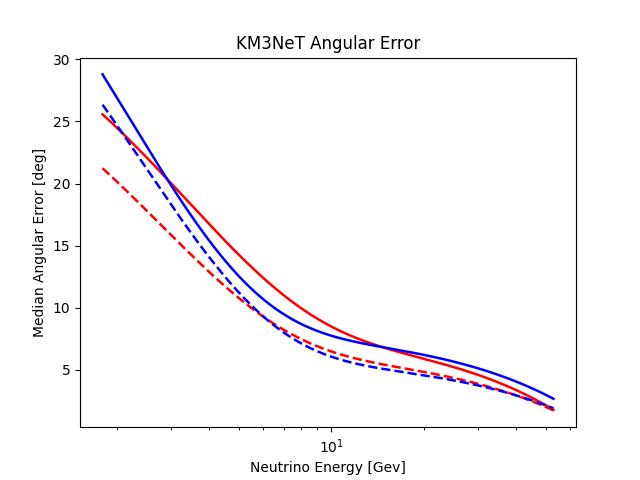
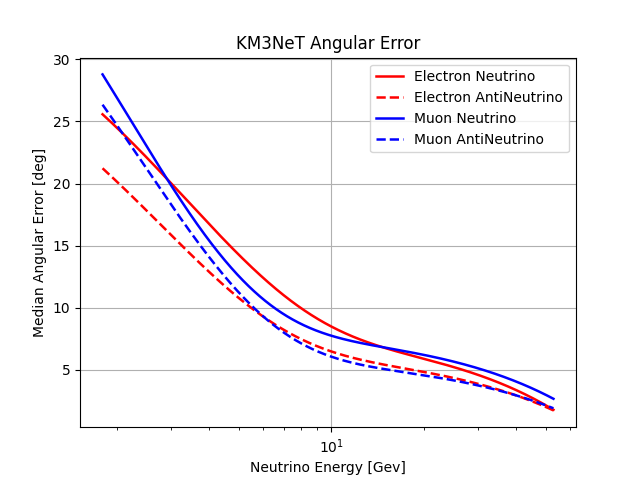
ORCA FINISHED V1

diff --git a/sources/ORCA/MCGenerator.py b/sources/ORCA/MCGenerator.py
@@ -72,6 +72,7 @@ class Generator:
 				else:
 					ORCA_zen_reco = -1
 
+				print("For event ", i, ":")
 				print("the true energy is ", self.MC["true_energy"][i])
 				print("the IC reco energy is ", self.MC["reco_energy"][i])
 				print("the fake ORCA MC energy is ", ORCA_E_reco, "\n")

diff --git a/sources/ORCA/plot.py b/sources/ORCA/plot.py
@@ -29,6 +29,8 @@ def plot_zenith_errors():
     plt.ylabel("Median Angular Error [deg]")
 
     plt.title("KM3NeT Angular Error")
+    plt.legend()
+    plt.grid(True)
 
     # plt.show()
     plt.savefig("KM3NeT Angular Error")
